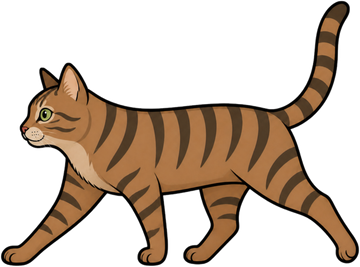
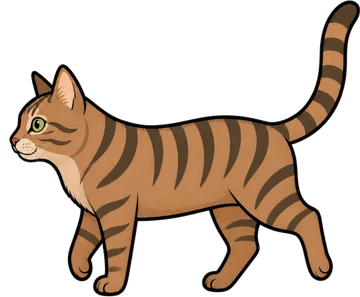
feat: Walk Minerva through 8 frames a stride, one frame at a time, so her paws stay planted at the About page's pace.

Changed region(s): [[0.0, 0.0, 1.0, 1.0]]

diff --git a/src/lib/about-cats-rig.ts b/src/lib/about-cats-rig.ts
@@ -7,7 +7,9 @@
 import { PAD, SHEET } from './about-cats-sheet';
 import {
   POSE_FRAME,
+  WALK,
   frameFor,
+  walkFramePx,
   type Frame,
   type Motion,
   type NamedPose,
@@ -20,7 +22,7 @@ const NS = 'http://www.w3.org/2000/svg';
 const D = Math.PI / 180;
 
 /** One step of the flip-book: 12 a second. A new frame waits until the last has shown this long, so every in-between is seen. */
-const TICK_MS = 1000 / 12;
+export const TICK_MS = 1000 / 12;
 /** The squash a cat lands in for one step when it arrives in a still pose. */
 const ARRIVE_SQUASH = 0.96;
 /** How much a held pose grows at the top of a breath, as a share of its height. */
@@ -84,11 +86,36 @@ const NAMED = Object.fromEntries(
   (Object.keys(POSE_FRAME) as NamedPose[]).map((name) => [name, pose(name)]),
 ) as Record<NamedPose, Pose>;
 
-const STILL: Motion = { travelled: 0, moving: false, lift: 0, lastLift: 0 };
+const STILL: Motion = {
+  walk: [],
+  walkPx: 1,
+  travelled: 0,
+  moving: false,
+  lift: 0,
+  lastLift: 0,
+};
+
+type Tile = readonly [
+  number,
+  number,
+  number,
+  number,
+  number,
+  number,
+  number,
+  number,
+];
+
+/** Where `frame` sits in the cat's sheet; only Minerva has walk5 to walk8. */
+const tileOf = (id: CatId, frame: Frame): Tile => {
+  const tile = (SHEET[id] as Partial<Record<Frame, Tile>>)[frame];
+  if (!tile) throw new Error(`The ${id} sheet has no ${frame} frame.`);
+  return tile;
+};
 
 /** A frame's drawn size and the cat's own size inside it, in px. */
 const sizeOf = (id: CatId, frame: Frame) => {
-  const [, , , , dw, dh, w, h] = SHEET[id][frame];
+  const [, , , , dw, dh, w, h] = tileOf(id, frame);
   return { dw, dh, w, h };
 };
 
@@ -236,7 +263,7 @@ export const loadSheet = (rig: CatRig): void => {
 
 /** Shows `frame` in `layer`, its ground line at y = 0 and centered on x = 0. */
 const drawFrame = (rig: CatRig, layer: Layer, frame: Frame): void => {
-  const [sx, sy, sw, sh, dw, dh, , h] = SHEET[rig.id][frame];
+  const [sx, sy, sw, sh, dw, dh, , h] = tileOf(rig.id, frame);
   const { width, height } = rig.sheet;
   set(layer.view, 'x', f(-dw / 2));
   set(layer.view, 'y', f(-(PAD + h)));
@@ -251,6 +278,47 @@ const showLayer = (layer: Layer, opacity: number): void => {
   set(layer.view, 'opacity', f(opacity));
   set(layer.view, 'visibility', opacity > 0 ? 'visible' : 'hidden');
 };
+
+/** What stepFrame keeps between frames. */
+export type FrameStep = Pick<
+  CatRig,
+  'frame' | 'shownAt' | 'pending' | 'cut' | 'stepX'
+>;
+
+/**
+ * Moves `s` toward the frame `wanted`, returning true when the frame changes.
+ * Frames cut, never fade: a fade doubles the legs. Each holds a full step, so a
+ * quick move still shows its in-between, and a walk advances one frame at a time.
+ */
+export const stepFrame = (
+  s: FrameStep,
+  wanted: Frame,
+  now: number,
+  x: number,
+  walk: readonly Frame[],
+): boolean => {
+  const at = s.frame === null ? -1 : walk.indexOf(s.frame);
+  const next =
+    at >= 0 && wanted !== s.frame && walk.includes(wanted)
+      ? walk[(at + 1) % walk.length]!
+      : wanted;
+  s.pending = next !== s.frame && now - s.shownAt < TICK_MS;
+  if (next === s.frame) s.cut = false;
+  if (next === s.frame || s.pending) return false;
+  /* A cut counts as a full step already shown: no squash, and the next frame need not wait. */
+  s.shownAt = s.cut ? now - TICK_MS : now;
+  s.cut = false;
+  s.stepX = x;
+  s.frame = next;
+  return true;
+};
+
+/** Where the cat is drawn: while a walk frame shows, where that frame began, so a planted paw never slides; the body catches up when the next frame cuts in. */
+export const drawnXOf = (
+  s: Pick<FrameStep, 'frame' | 'stepX'>,
+  x: number,
+): number =>
+  s.frame?.startsWith('walk') && !Number.isNaN(s.stepX) ? s.stepX : x;
 
 /** True while a frame waits its turn or the arrival squash shows: the loop draws until both end. */
 export const isStepping = (
@@ -296,7 +364,9 @@ export const renderCat = (
   /* A frame drawn too soon after the last moves the cat too little to tell: walking lasts until it has stood still a while. */
   const moving = now - rig.movedAt < STILL_MS;
   rig.travelled = moving ? rig.travelled + step : 0;
-  const frame = frameFor(grounded(p), NAMED, {
+  const wanted = frameFor(grounded(p), NAMED, {
+    walk: WALK[rig.id],
+    walkPx: walkFramePx(rig.id),
     travelled: rig.travelled,
     moving,
     lift: p.y,
@@ -304,20 +374,13 @@ export const renderCat = (
   });
   rig.lastLift = p.y;
 
-  /* Frames cut, never fade: a fade doubles the legs. Each holds a full step, so a quick move still shows its in-between. */
   const arrived = rig.frame !== null && !rig.cut;
-  rig.pending = frame !== rig.frame && now - rig.shownAt < TICK_MS;
-  if (frame !== rig.frame && !rig.pending) {
-    drawFrame(rig, rig.layer, frame);
+  if (stepFrame(rig, wanted, now, x, WALK[rig.id])) {
+    drawFrame(rig, rig.layer, rig.frame!);
     showLayer(rig.layer, 1);
-    /* A cut counts as a full step already shown: no squash, and the next frame need not wait. */
-    rig.shownAt = rig.cut ? now - TICK_MS : now;
-    rig.cut = false;
-    rig.stepX = x;
-    rig.frame = frame;
-    set(rig.root, 'data-frame', frame);
+    set(rig.root, 'data-frame', rig.frame!);
   }
-  const shown = rig.frame ?? frame;
+  const shown = rig.frame ?? wanted;
 
   const { w, h } = sizeOf(rig.id, shown);
   const lift = liftOf(p);
@@ -335,9 +398,7 @@ export const renderCat = (
     set(rig.zz, 'opacity', f(Math.min(1, 2 * p.zz)));
   }
 
-  /* While a walk frame shows, the body holds where that frame began: it moves WALK_FRAME_PX with each frame, so a planted paw never slides, and catches up only when the next frame cuts in. */
-  const drawnX =
-    shown.startsWith('walk') && !Number.isNaN(rig.stepX) ? rig.stepX : x;
+  const drawnX = drawnXOf(rig, x);
   set(rig.root, 'transform', translate(drawnX, groundY));
   /* A still frame breathes with the pose's chest, and lands in a squash for one step. */
   const still = RESTING_POSE.has(shown) && !moving;

diff --git a/src/lib/about-cats-frames.ts b/src/lib/about-cats-frames.ts
@@ -1,6 +1,7 @@
 /*
- * Pure. The About cats are drawn from 24 Canva AI frames each. This picks the
- * frame for a pose and sets how tall each frame is drawn.
+ * Pure. The About cats are drawn from Canva AI frames, 24 each plus a longer
+ * walk for Minerva. This picks the frame for a pose and sets how tall each
+ * frame is drawn.
  */
 import type { CatId, Pose } from './about-cats-types';
 
@@ -11,6 +12,10 @@ export const FRAMES = [
   'walk2',
   'walk3',
   'walk4',
+  'walk5',
+  'walk6',
+  'walk7',
+  'walk8',
   'rise',
   'crouchdown',
   'crouch',
@@ -33,7 +38,19 @@ export const FRAMES = [
 
 export type Frame = (typeof FRAMES)[number];
 
-export const WALK: readonly Frame[] = ['walk', 'walk2', 'walk3', 'walk4'];
+const WALK4: readonly Frame[] = ['walk', 'walk2', 'walk3', 'walk4'];
+const WALK8: readonly Frame[] = [...WALK4, 'walk5', 'walk6', 'walk7', 'walk8'];
+
+/** Each cat's walk cycle, one stride. */
+export const WALK: Record<CatId, readonly Frame[]> = {
+  minerva: WALK8,
+  rudra: WALK4,
+  hela: WALK4,
+};
+
+/** The frames drawn for a cat: every frame but the walk frames past its cycle. */
+export const framesOf = (cat: CatId): readonly Frame[] =>
+  FRAMES.filter((frame) => !WALK8.includes(frame) || WALK[cat].includes(frame));
 
 /** A sitting cat's drawn height in px; Hela is the smallest of the three. */
 export const SIT_HEIGHT: Record<CatId, number> = {
@@ -54,6 +71,10 @@ const SIZE: Record<Frame, ['h' | 'w', number]> = {
   walk2: ['w', 1.01],
   walk3: ['w', 1.01],
   walk4: ['w', 1.01],
+  walk5: ['w', 1.01],
+  walk6: ['w', 1.01],
+  walk7: ['w', 1.01],
+  walk8: ['w', 1.01],
   rise: ['w', 0.94],
   crouchdown: ['w', 1.12],
   crouch: ['w', 1.12],
@@ -169,10 +190,17 @@ const LOOK_BACK = 20;
 /** px off the ground that reads as a jump, and as the top of one. */
 const AIRBORNE = 3;
 const HIGH = 14;
-/** px a paw travels per walk frame. */
-export const WALK_FRAME_PX = 13;
+/** px the body travels in one stride, the drawn step length of the walk cycle. */
+export const WALK_STRIDE_PX = 52;
+
+/** px the body travels per walk frame: a stride shared by the cat's walk frames, so a planted paw stays put. */
+export const walkFramePx = (cat: CatId): number =>
+  WALK_STRIDE_PX / WALK[cat].length;
 
 export interface Motion {
+  /** The cat's walk cycle and the px it travels per frame. */
+  walk: readonly Frame[];
+  walkPx: number;
   /** px travelled along the ground since the cat started walking. */
   travelled: number;
   moving: boolean;
@@ -209,7 +237,9 @@ export const frameFor = (
   if (motion.moving && (near.name === 'stand' || near.name === 'crouch'))
     return near.name === 'crouch'
       ? 'crouch'
-      : WALK[Math.floor(motion.travelled / WALK_FRAME_PX) % WALK.length];
+      : motion.walk[
+          Math.floor(motion.travelled / motion.walkPx) % motion.walk.length
+        ];
 
   if (between) return between;
   if (near.name === 'sit' && Math.abs(p.hr) > LOOK_BACK) return 'look';

diff --git a/src/lib/about-cats-sheet.ts b/src/lib/about-cats-sheet.ts
@@ -4,28 +4,32 @@ export const SHEET = {
   minerva: {
     sit: [0, 0, 120, 188, 60, 94, 45.56, 80],
     stand: [234, 0, 190, 222, 95, 111, 80.8, 96.32],
-    walk: [468, 0, 190, 164, 95, 82, 80.8, 67.11],
-    walk2: [702, 0, 190, 148, 95, 74, 80.8, 59.93],
-    walk3: [936, 0, 190, 178, 95, 89, 80.8, 74.74],
-    walk4: [1170, 0, 190, 164, 95, 82, 80.8, 67.11],
-    rise: [0, 224, 180, 164, 90, 82, 75.2, 67.26],
-    crouchdown: [234, 224, 208, 116, 104, 58, 89.6, 43.06],
-    crouch: [468, 224, 208, 98, 104, 49, 89.6, 34.84],
-    takeoff: [702, 224, 208, 160, 104, 80, 89.6, 65.21],
-    leap: [936, 224, 232, 122, 116, 61, 101.6, 46],
-    landing: [1170, 224, 196, 184, 98, 92, 84, 77.47],
-    stretchhalf: [0, 410, 204, 172, 102, 86, 87.2, 71.7],
-    stretch: [234, 410, 196, 192, 98, 96, 84, 81.43],
-    loafsink: [468, 410, 180, 152, 90, 76, 75.2, 61.2],
-    loaf: [702, 410, 142, 114, 71, 57, 56.44, 42.8],
-    lieside: [936, 410, 228, 126, 114, 63, 99.2, 48.22],
-    sleep: [1170, 410, 156, 126, 78, 63, 63.2, 48.98],
-    roll: [0, 604, 196, 128, 98, 64, 84, 49.47],
-    belly: [234, 604, 196, 166, 98, 83, 84, 68.37],
-    pawrise: [468, 604, 140, 184, 70, 92, 55.08, 77.76],
-    swat: [702, 604, 202, 204, 101, 102, 86.13, 87.84],
-    headturn: [936, 604, 132, 188, 66, 94, 51.33, 80],
-    look: [1170, 604, 120, 188, 60, 94, 45.56, 80],
+    walk: [468, 0, 190, 162, 95, 81, 80.8, 66.66],
+    walk2: [702, 0, 190, 162, 95, 81, 80.8, 66.66],
+    walk3: [936, 0, 190, 162, 95, 81, 80.8, 66.66],
+    walk4: [1170, 0, 190, 162, 95, 81, 80.8, 66.66],
+    walk5: [0, 224, 190, 162, 95, 81, 80.8, 66.66],
+    walk6: [234, 224, 190, 162, 95, 81, 80.8, 66.66],
+    walk7: [468, 224, 190, 162, 95, 81, 80.8, 66.66],
+    walk8: [702, 224, 190, 162, 95, 81, 80.8, 66.66],
+    rise: [936, 224, 180, 164, 90, 82, 75.2, 67.26],
+    crouchdown: [1170, 224, 208, 116, 104, 58, 89.6, 43.06],
+    crouch: [0, 390, 208, 98, 104, 49, 89.6, 34.84],
+    takeoff: [234, 390, 208, 160, 104, 80, 89.6, 65.21],
+    leap: [468, 390, 232, 122, 116, 61, 101.6, 46],
+    landing: [702, 390, 196, 184, 98, 92, 84, 77.47],
+    stretchhalf: [936, 390, 204, 172, 102, 86, 87.2, 71.7],
+    stretch: [1170, 390, 196, 192, 98, 96, 84, 81.43],
+    loafsink: [0, 584, 180, 152, 90, 76, 75.2, 61.2],
+    loaf: [234, 584, 142, 114, 71, 57, 56.44, 42.8],
+    lieside: [468, 584, 228, 126, 114, 63, 99.2, 48.22],
+    sleep: [702, 584, 156, 126, 78, 63, 63.2, 48.98],
+    roll: [936, 584, 196, 128, 98, 64, 84, 49.47],
+    belly: [1170, 584, 196, 166, 98, 83, 84, 68.37],
+    pawrise: [0, 752, 140, 184, 70, 92, 55.08, 77.76],
+    swat: [234, 752, 202, 204, 101, 102, 86.13, 87.84],
+    headturn: [468, 752, 132, 188, 66, 94, 51.33, 80],
+    look: [702, 752, 120, 188, 60, 94, 45.56, 80],
   },
   rudra: {
     sit: [0, 0, 142, 188, 71, 94, 56.44, 80],

diff --git a/tests/about-cats.spec.ts b/tests/about-cats.spec.ts
@@ -27,11 +27,19 @@ import {
   HIT_HALF_WIDTH,
   POST_HEIGHT,
   highestPoint,
+  TICK_MS,
+  drawnXOf,
   hitBox,
   isStepping,
   reachOf,
+  stepFrame,
 } from '../src/lib/about-cats-rig';
-import { FRAMES } from '../src/lib/about-cats-frames';
+import {
+  WALK,
+  framesOf,
+  walkFramePx,
+  type Frame,
+} from '../src/lib/about-cats-frames';
 import {
   createIdle,
   idleFrameMs,
@@ -548,7 +556,7 @@ test(
 
 /** Frames this far apart, as a loaded device drew them in CI. */
 const SLOW_FRAME_MS = 530;
-/** Frames a slow device may still draw after a move ends: the move's last, and the fade's. */
+/** Frames a slow device may still draw after a move ends: the move's last, and its arrival step. */
 const SLOW_FRAMES_SPARE = 2;
 
 test(
@@ -556,7 +564,7 @@ test(
   NODE,
   () => {
     for (const id of CATS)
-      for (const frame of FRAMES) {
+      for (const frame of framesOf(id)) {
         const { half, tall } = hitBox(id, frame);
         expect(2 * half, `${id} ${frame} width`).toBeGreaterThanOrEqual(
           MIN_TARGET,
@@ -627,6 +635,49 @@ test(
       isStepping({ shownAt: 0, pending: true }, SC_2_2_2_MS),
       'a frame waiting its turn keeps the loop drawing',
     ).toBe(true);
+  },
+);
+
+/** A run fast enough to cross a whole stride between two screen frames. */
+const RUN_PX_PER_MS = 0.5;
+const SCREEN_FRAME_MS = 1000 / 60;
+
+test(
+  'a walking cat shows every walk frame in order, each for a full step, its body still within a frame',
+  NODE,
+  () => {
+    for (const id of CATS) {
+      const walk = WALK[id];
+      const s = {
+        frame: 'stand' as Frame | null,
+        shownAt: -Infinity,
+        pending: false,
+        cut: false,
+        stepX: NaN,
+      };
+      const shown: { frame: Frame; at: number; x: number }[] = [];
+      for (let at = 0; at < 2000; at += SCREEN_FRAME_MS) {
+        const x = at * RUN_PX_PER_MS;
+        const wanted = walk[Math.floor(x / walkFramePx(id)) % walk.length]!;
+        if (stepFrame(s, wanted, at, x, walk))
+          shown.push({ frame: s.frame!, at, x: drawnXOf(s, x) });
+        else if (shown.length)
+          expect(drawnXOf(s, x), `${id} moved within a walk frame`).toBe(
+            shown.at(-1)!.x,
+          );
+      }
+      shown.slice(1).forEach(({ frame, at }, i) => {
+        const before = shown[i]!;
+        expect(
+          walk.indexOf(frame),
+          `${id} skipped from ${before.frame} to ${frame}`,
+        ).toBe((walk.indexOf(before.frame) + 1) % walk.length);
+        expect(
+          at - before.at,
+          `${id} showed ${before.frame} for less than a step`,
+        ).toBeGreaterThanOrEqual(TICK_MS);
+      });
+    }
   },
 );
 
